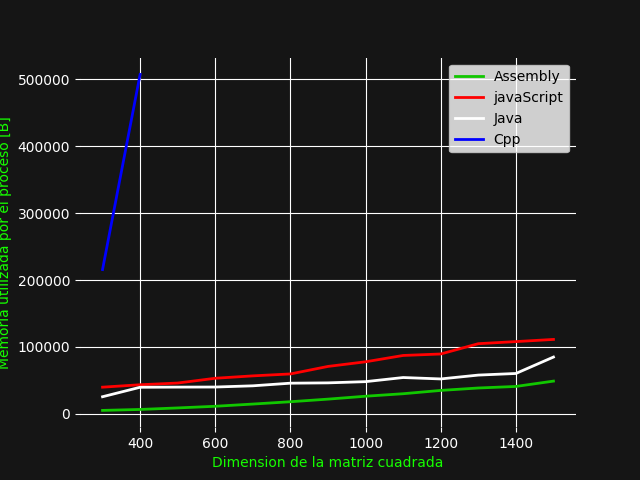
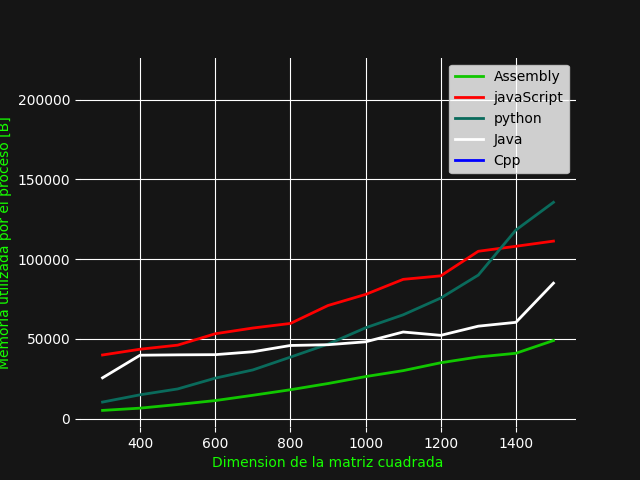
completed

diff --git a/results/graphResults.py b/results/graphResults.py
@@ -11,7 +11,7 @@ lan4 = 'cpp'
 lan5 = 'java'
 assembly = pd.read_excel('./results.xlsx',sheet_name=lan1)
 javaScript = pd.read_excel('./results.xlsx',sheet_name=lan2)
-# python = pd.read_excel('./results.xlsx',sheet_name=lan3)
+python = pd.read_excel('./results.xlsx',sheet_name=lan3)
 cpp = pd.read_excel('./results.xlsx',sheet_name=lan4)
 java = pd.read_excel('./results.xlsx',sheet_name=lan5)
 
@@ -27,9 +27,9 @@ memoryAs      = assembly['memory']
 dimensionJs   = javaScript['dimension']
 timeJs        = javaScript['time']
 memoryJs     = javaScript['memory']
-# dimensionPy   = python['dimension']
-# timePy        = python['time']
-# memoryPy      = python['memory']
+dimensionPy   = python['dimension']
+timePy        = python['time']
+memoryPy      = python['memory']
 dimensionJava = java['dimension']
 timeJava      = java['time']
 memoryJava    = java['memory']
@@ -54,9 +54,9 @@ plt.xlabel("Dimension de la matriz cuadrada",color= color2)
 plt.ylabel("Memoria utilizada por el proceso [B]",color =color2)
 plt.plot(dimensionAs,memoryAs,color= color1, label = "Assembly")
 plt.plot(dimensionJs,memoryJs,color = 'red', label = "javaScript")
-# plt.plot(dimensionPy,memoryPy,color = '#0a6b5c', label = "javaScript")
+plt.plot(dimensionPy,memoryPy,color = '#0a6b5c', label = "python")
 plt.plot(dimensionJava,memoryJava,color = 'white', label = "Java")
-plt.plot(dimensionCpp[0:2],memoryCpp[0:2],color = 'blue', label = "Cpp")
+plt.plot(dimensionCpp[0:1],memoryCpp[0:1],color = 'blue', label = "Cpp")
 
 
 plt.legend()

diff --git a/results/graphResultsTime.py b/results/graphResultsTime.py
@@ -11,7 +11,7 @@ lan4 = 'cpp'
 lan5 = 'java'
 assembly = pd.read_excel('./results.xlsx',sheet_name=lan1)
 javaScript = pd.read_excel('./results.xlsx',sheet_name=lan2)
-# python = pd.read_excel('./results.xlsx',sheet_name=lan3)
+python = pd.read_excel('./results.xlsx',sheet_name=lan3)
 cpp = pd.read_excel('./results.xlsx',sheet_name=lan4)
 java = pd.read_excel('./results.xlsx',sheet_name=lan5)
 
@@ -27,9 +27,9 @@ memoryAs      = assembly['memory']
 dimensionJs   = javaScript['dimension']
 timeJs        = javaScript['time']
 memoryJs     = javaScript['memory']
-# dimensionPy   = python['dimension']
-# timePy        = python['time']
-# memoryPy      = python['memory']
+dimensionPy   = python['dimension']
+timePy        = python['time']
+memoryPy      = python['memory']
 dimensionJava = java['dimension']
 timeJava      = java['time']
 memoryJava    = java['memory']
@@ -54,7 +54,7 @@ plt.xlabel("Dimension de la matriz cuadrada",color= color2)
 plt.ylabel("Memoria utilizada por el proceso [B]",color =color2)
 plt.plot(dimensionAs,timeAs,color= color1, label = "Assembly")
 plt.plot(dimensionJs,timeJs,color = 'red', label = "javaScript")
-# plt.plot(dimensionPy,memoryPy,color = '#0a6b5c', label = "javaScript")
+plt.plot(dimensionPy,memoryPy,color = '#0a6b5c', label = "python")
 plt.plot(dimensionJava,timeJava,color = 'white', label = "Java")
 plt.plot(dimensionCpp,timeCpp,color = 'blue', label = "Cpp")
 

diff --git a/results/graphTime.py b/results/graphTime.py
@@ -4,7 +4,7 @@ import numpy as np
 from matplotlib import cycler
 
 
-languaje = 'java'
+languaje = 'python'
 data = pd.read_excel('./results.xlsx', sheet_name=languaje)
 
 color1 = '#11c700'

diff --git a/results/graphMemory.py b/results/graphMemory.py
@@ -4,7 +4,7 @@ import numpy as np
 from matplotlib import cycler
 
 
-language = 'java'
+language = 'python'
 data = pd.read_excel('./results.xlsx',sheet_name=language)
 
 color1 = '#11c700'

diff --git a/code/matMul.py b/code/matMul.py
@@ -1,6 +1,6 @@
 #Implementacion de multiplicacion de matrices 
 import random
-n= 300 
+n= 1300 
 low,high = 0,100
 cols,rows = n,n
 

diff --git a/README.md b/README.md
@@ -145,5 +145,11 @@ La relación de dimesión y memoria
   recomendaría utilizar, por ejemplo C++, sin manejar la memoria de alguna
   forma. Son eficientes en la ejecución pero el manejo de memoria es un deficiente.
 
+- Para varios de los lenguajes mas eficientes como lo son C++o Assembly,
+  podemos ver que el consumo de memoria es muy grande, en si se debe a que no
+  estamos creando un buen sistema de manejo del mismo. Esta es la razon por lo
+  que en otro tipo de lenguajes, que se sabe que no son tan eficientes, tienden
+  a hacer un mejor uso de memoria
+
 ### [Referencias](./subpages/referencias.md)
 
